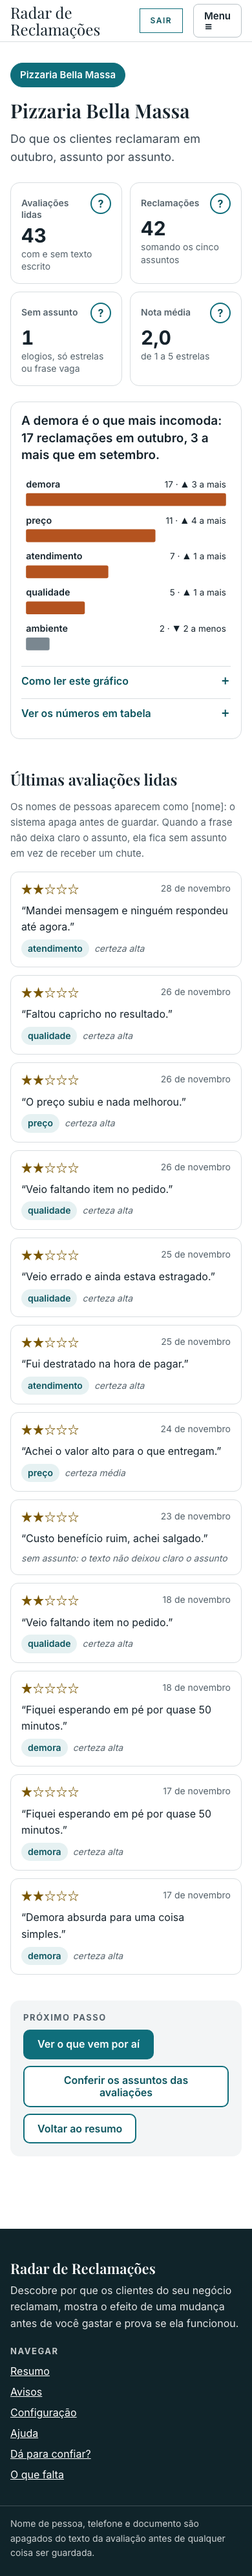
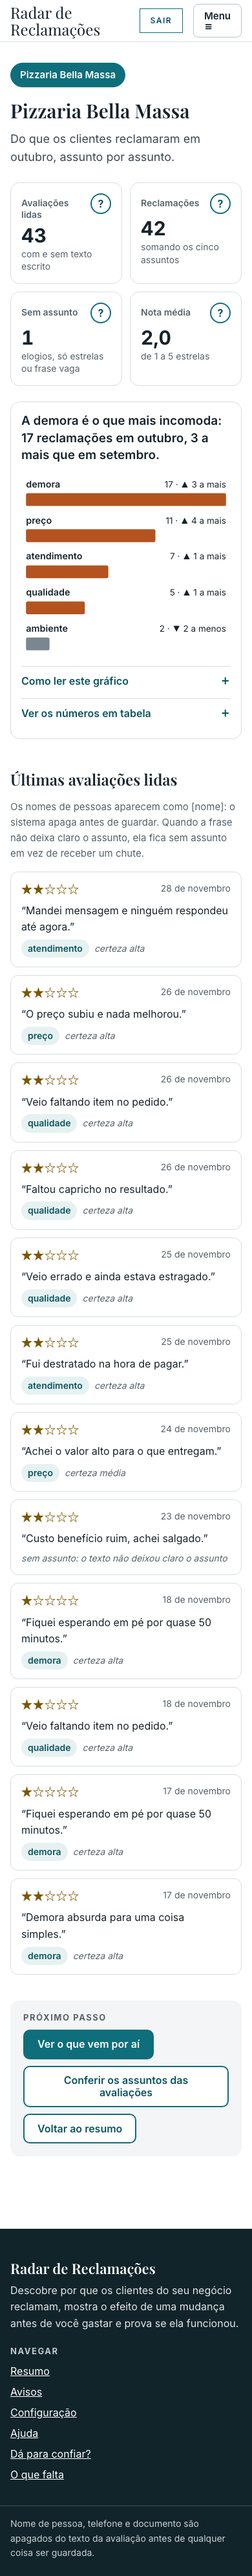
Conserta o assunto em alta, que desempatava pelo alfabeto
Visto na tela em produção antes de ser visto no código. O negócio piloto tinha
demora com 19 reclamações no mês e qualidade com 1. As duas estimadas para subir
exatamente 1. O gráfico dizia "a demora é o que mais incomoda" e a tela de
estimativa abria em qualidade.

A causa: o desempate do assunto em alta era o nome do assunto, e "qualidade" vem
depois de "demora" na ordem alfabética. Então um assunto com 1 reclamação ganhava
de um com 19 sempre que os dois crescessem igual, o que numa contagem pequena
acontece toda hora.

Agora a ordem é: cresce mais, depois o maior em volume, e só então o nome, que
fica para a estabilidade do resultado. Teste de regressão monta exatamente esse
empate e exige demora.

Enquanto o teste era escrito, ele caiu na pegadinha que o próprio modelo tinha e
ninguém havia escrito: sem relationship(), o SQLAlchemy não conhece a dependência
entre as tabelas e não garante a ordem dos INSERT, então serie_mensal podia entrar
antes de categoria e a chave estrangeira falhava. A nota entrou no topo de
app/banco/modelo.py com a regra (flush entre quem é apontado e quem aponta) e com
o motivo de relationship() não ter sido declarado: ele traz carregamento
automático junto, e carregamento automático é o caminho mais curto para uma
consulta ler dado de outra empresa sem ninguém pedir.

378 testes.

diff --git a/tests/test_banco.py b/tests/test_banco.py
@@ -290,3 +290,59 @@ def test_a_migracao_deixa_o_vocabulario_de_assuntos_pronto(tmp_path, monkeypatch
     with create_engine(f"sqlite:///{arquivo}").connect() as conexao:
         assuntos = conexao.execute(text("SELECT id FROM categoria ORDER BY ordem")).scalars().all()
     assert tuple(assuntos) == CATEGORIAS
+
+
+def test_o_assunto_em_alta_desempata_pelo_tamanho_e_nao_pelo_alfabeto(tmp_path, monkeypatch):
+    """Defeito real de produção, visto na tela antes de ser visto no código.
+
+    Dois assuntos crescendo a mesma quantidade: um com 19 reclamações no mês e
+    outro com 1. O desempate era pela ordem alfabética do nome do assunto, então
+    "qualidade" (1 reclamação) ganhava de "demora" (19). A tela dizia "a demora é
+    o que mais incomoda" no gráfico e abria a estimativa em qualidade.
+    """
+    monkeypatch.setenv("DATABASE_URL", f"sqlite:///{tmp_path / 'alta.sqlite3'}")
+    fonte.esquecer()
+    modelo.Base.metadata.create_all(fonte.motor())
+
+    with fonte.Sessao() as sessao:
+        sessao.add(modelo.Empresa(id="e1", nome="Empresa"))
+        sessao.flush()
+        sessao.add(modelo.Comercio(id="c1", empresa_id="e1", nome="Negócio",
+                                   ramo="Teste", cidade="Campinas, SP"))
+        sessao.add(modelo.VersaoModelo(id="v1", empresa_id="e1", tipo="previsao",
+                                       nome="teste", treinada_em=datetime.now(), ativa=True))
+        for categoria in CATEGORIAS:
+            sessao.add(modelo.Categoria(id=categoria, nome=categoria, ordem=1))
+        # O flush aqui não é zelo: sem `relationship()` no modelo, o SQLAlchemy não
+        # conhece a dependência entre as tabelas e não garante a ordem dos INSERT.
+        # Sem este flush, `serie_mensal` pode entrar antes de `categoria` e a chave
+        # estrangeira falha. Ver a nota em app/banco/modelo.py.
+        sessao.flush()
+        # Outubro fechado: demora com 19, qualidade com 1, o resto com zero.
+        quantidades = {"demora": 19, "qualidade": 1, "atendimento": 0,
+                       "preco": 0, "ambiente": 0}
+        for categoria, quantas in quantidades.items():
+            sessao.add(modelo.SerieMensal(empresa_id="e1", comercio_id="c1",
+                                          categoria_id=categoria, mes=date(2026, 10, 1),
+                                          quantidade=quantas, fechado=True))
+        # Novembro estimado: as duas crescem exatamente 1.
+        for categoria, quantas in (("demora", 20), ("qualidade", 2)):
+            sessao.add(modelo.Previsao(
+                id=f"p-{categoria}", empresa_id="e1", comercio_id="c1",
+                categoria_id=categoria, mes=date(2026, 11, 1),
+                p10=quantas - 1, p50=quantas, p90=quantas + 1, versao_modelo_id="v1",
+            ))
+        sessao.add(modelo.Avaliacao(id="a1", empresa_id="e1", comercio_id="c1",
+                                    id_origem="o1", data=date(2026, 10, 5), estrelas=2,
+                                    texto="Esperei demais"))
+        sessao.commit()
+
+    with fonte.Sessao() as sessao:
+        cartao = consultas.comercios(sessao, "e1")[0]
+    fonte.esquecer()
+
+    assert cartao.vai_crescer == "demora", (
+        f"o assunto em alta saiu {cartao.vai_crescer!r}: o desempate voltou para o alfabeto"
+    )
+    assert cartao.vai_crescer_de == 19
+    assert cartao.mais_reclamado == "demora"

diff --git a/app/banco/modelo.py b/app/banco/modelo.py
@@ -6,6 +6,25 @@ de o programador lembrar — a coluna está lá para ser usada. Só `empresa` (a
 e `categoria` (vocabulário igual para as três) ficam de fora.
 
 Nomes em português, como no resto do código.
+
+## Uma pegadinha que vale saber antes de escrever código que grava
+
+Este módulo **não** declara `relationship()` entre as tabelas, só as chaves
+estrangeiras. A consequência é concreta: o SQLAlchemy não conhece a dependência
+entre as tabelas e **não garante a ordem dos INSERT** quando várias entram na
+mesma transação. Gravar `serie_mensal` e `categoria` juntos pode falhar com
+"FOREIGN KEY constraint failed", dependendo da ordem em que o SQLAlchemy resolveu
+mandar.
+
+A regra, então: **`sessao.flush()` entre quem é apontado e quem aponta.** É o que
+`app/coleta/motor.py` faz entre a versão do modelo e as classificações, e entre a
+previsão e o alerta. Quem escrever gravação nova aqui precisa fazer o mesmo.
+
+Por que não declarar `relationship()` e resolver de vez: porque `relationship()`
+traz carregamento automático junto, e carregamento automático é o caminho mais
+curto para uma consulta ler dado de outra empresa sem ninguém pedir. O filtro por
+empresa é a regra que sustenta o projeto, e um `flush()` explícito é um preço
+baixo para não abrir essa porta.
 """
 
 from __future__ import annotations

diff --git a/app/banco/consultas.py b/app/banco/consultas.py
@@ -225,10 +225,23 @@ def comercios(sessao: Session, empresa_id: str) -> tuple[ResumoComercio, ...]:
         ) or 0
 
         mais_reclamado = max(fechado, key=lambda c: (fechado[c], c))
-        em_alta = max(
-            fechado,
-            key=lambda c: ((previstas[c].p50 - fechado[c]) if c in previstas else -10**6, c),
-        )
+
+        def _quanto_cresce(categoria: str, fechado=fechado,
+                           previstas=previstas) -> tuple[int, int, str]:
+            """A ordem que escolhe o assunto em alta: cresce mais, e depois o maior.
+
+            O segundo critério não é enfeite. Sem ele o desempate caía na ordem
+            alfabética, e um assunto com 1 reclamação que sobe 1 ganhava de um com
+            19 que também sobe 1, só porque "qualidade" vem depois de "demora".
+            A tela então dizia "a demora é o que mais incomoda" no gráfico e abria
+            a estimativa em qualidade. Aconteceu em produção.
+            """
+            atual = fechado[categoria]
+            if categoria not in previstas:
+                return (-10**6, atual, categoria)
+            return (previstas[categoria].p50 - atual, atual, categoria)
+
+        em_alta = max(fechado, key=_quanto_cresce)
         cartoes.append(ResumoComercio(
             empresa_id=comercio.id,
             nome=comercio.nome,
